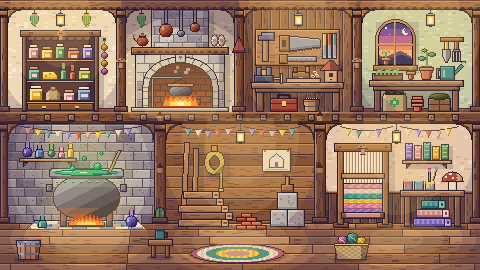
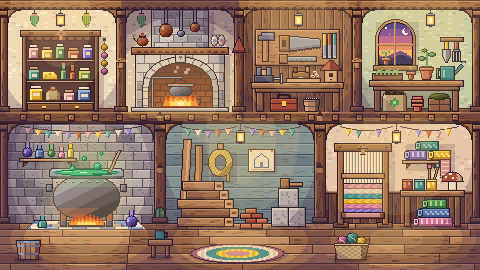
Workshop mockup B (seven nooks) done: all three mockups complete
Claude-Session: https://claude.ai/code/session_01PZZqg6voCVS8WLDGSPQ7Xb

Changed region(s): [[0.3438, 0.4444, 0.6562, 0.8593], [0.8125, 0.5037, 0.9688, 0.7111], [0.8438, 0.7407, 0.9688, 0.8593]]

diff --git a/aseprite-source/v3/workshop/b/notes.md b/aseprite-source/v3/workshop/b/notes.md
@@ -1,0 +1,6 @@
+# Workshop mockup B: "Seven nooks"
+- Idea: a gnome hall seen as a doll's-house cutaway. Upper gallery of four framed bays (pantry dresser, stone hearth, tool wall + bench, potting bench under a round-topped dusk window); ground floor of three bigger bays (cauldron on a tiled pad, building yard corner, loom + paint table). Carved posts, arched knee braces, a joisted gallery beam; each bay has its own back wall material so the crafts read apart.
+- Light story: cosy dusk. One warm source per bay (three hanging lanterns upstairs, the hearth fire, the green brew + fire under the cauldron, two lanterns downstairs) with a stepped lamp pass in `workshop.lua`: warm near the lamp, violet-brown shade toward posts, beam and bay corners; warm pools on the floor under each ground bay. Flames, lantern glass, brew and the window sky are unlit "emissive" pixels.
+- Quirks: gnome hat on a post peg; tiny green round-topped door in a post foot; crescent moon and star in the potting window; half-built birdhouse on the tool bench; half-painted toadstool ornament on the paint table; house plan (no letters) pinned in the building bay; mushroom and acorn carvings; bunting swags and drying herbs.
+- Anim layers (`anim.lua`, 12 PNGs, listed in `layout.json`): cooking flames (flicker) + steam (bob); pantry jar glints (twinkle); tools mallet (bob) + chips (twinkle); garden flowering shoot (sway); potions bubbles (bob) + flaring brew (pulse); building new brick (bob) + stone chips (twinkle); decor shuttle (drift, no shuttle in the base so nothing is uncovered) + wet-paint glints (twinkle).
+- Weak spots: it is a two-storey cutaway, so "back row / front row" became upper / lower row rather than depth on one floor. The light pass shows as stepped rings on the flat walls and floor, and the shade is on the gentle side. Upstairs stations fill their bays (5-10 px to the posts). The tools mallet layer floats over the saw; cloth bolts and the building stack are the least instantly readable shapes at phone size. Bottom-right 100 x 40 is plain floor boards with only a light pool.
